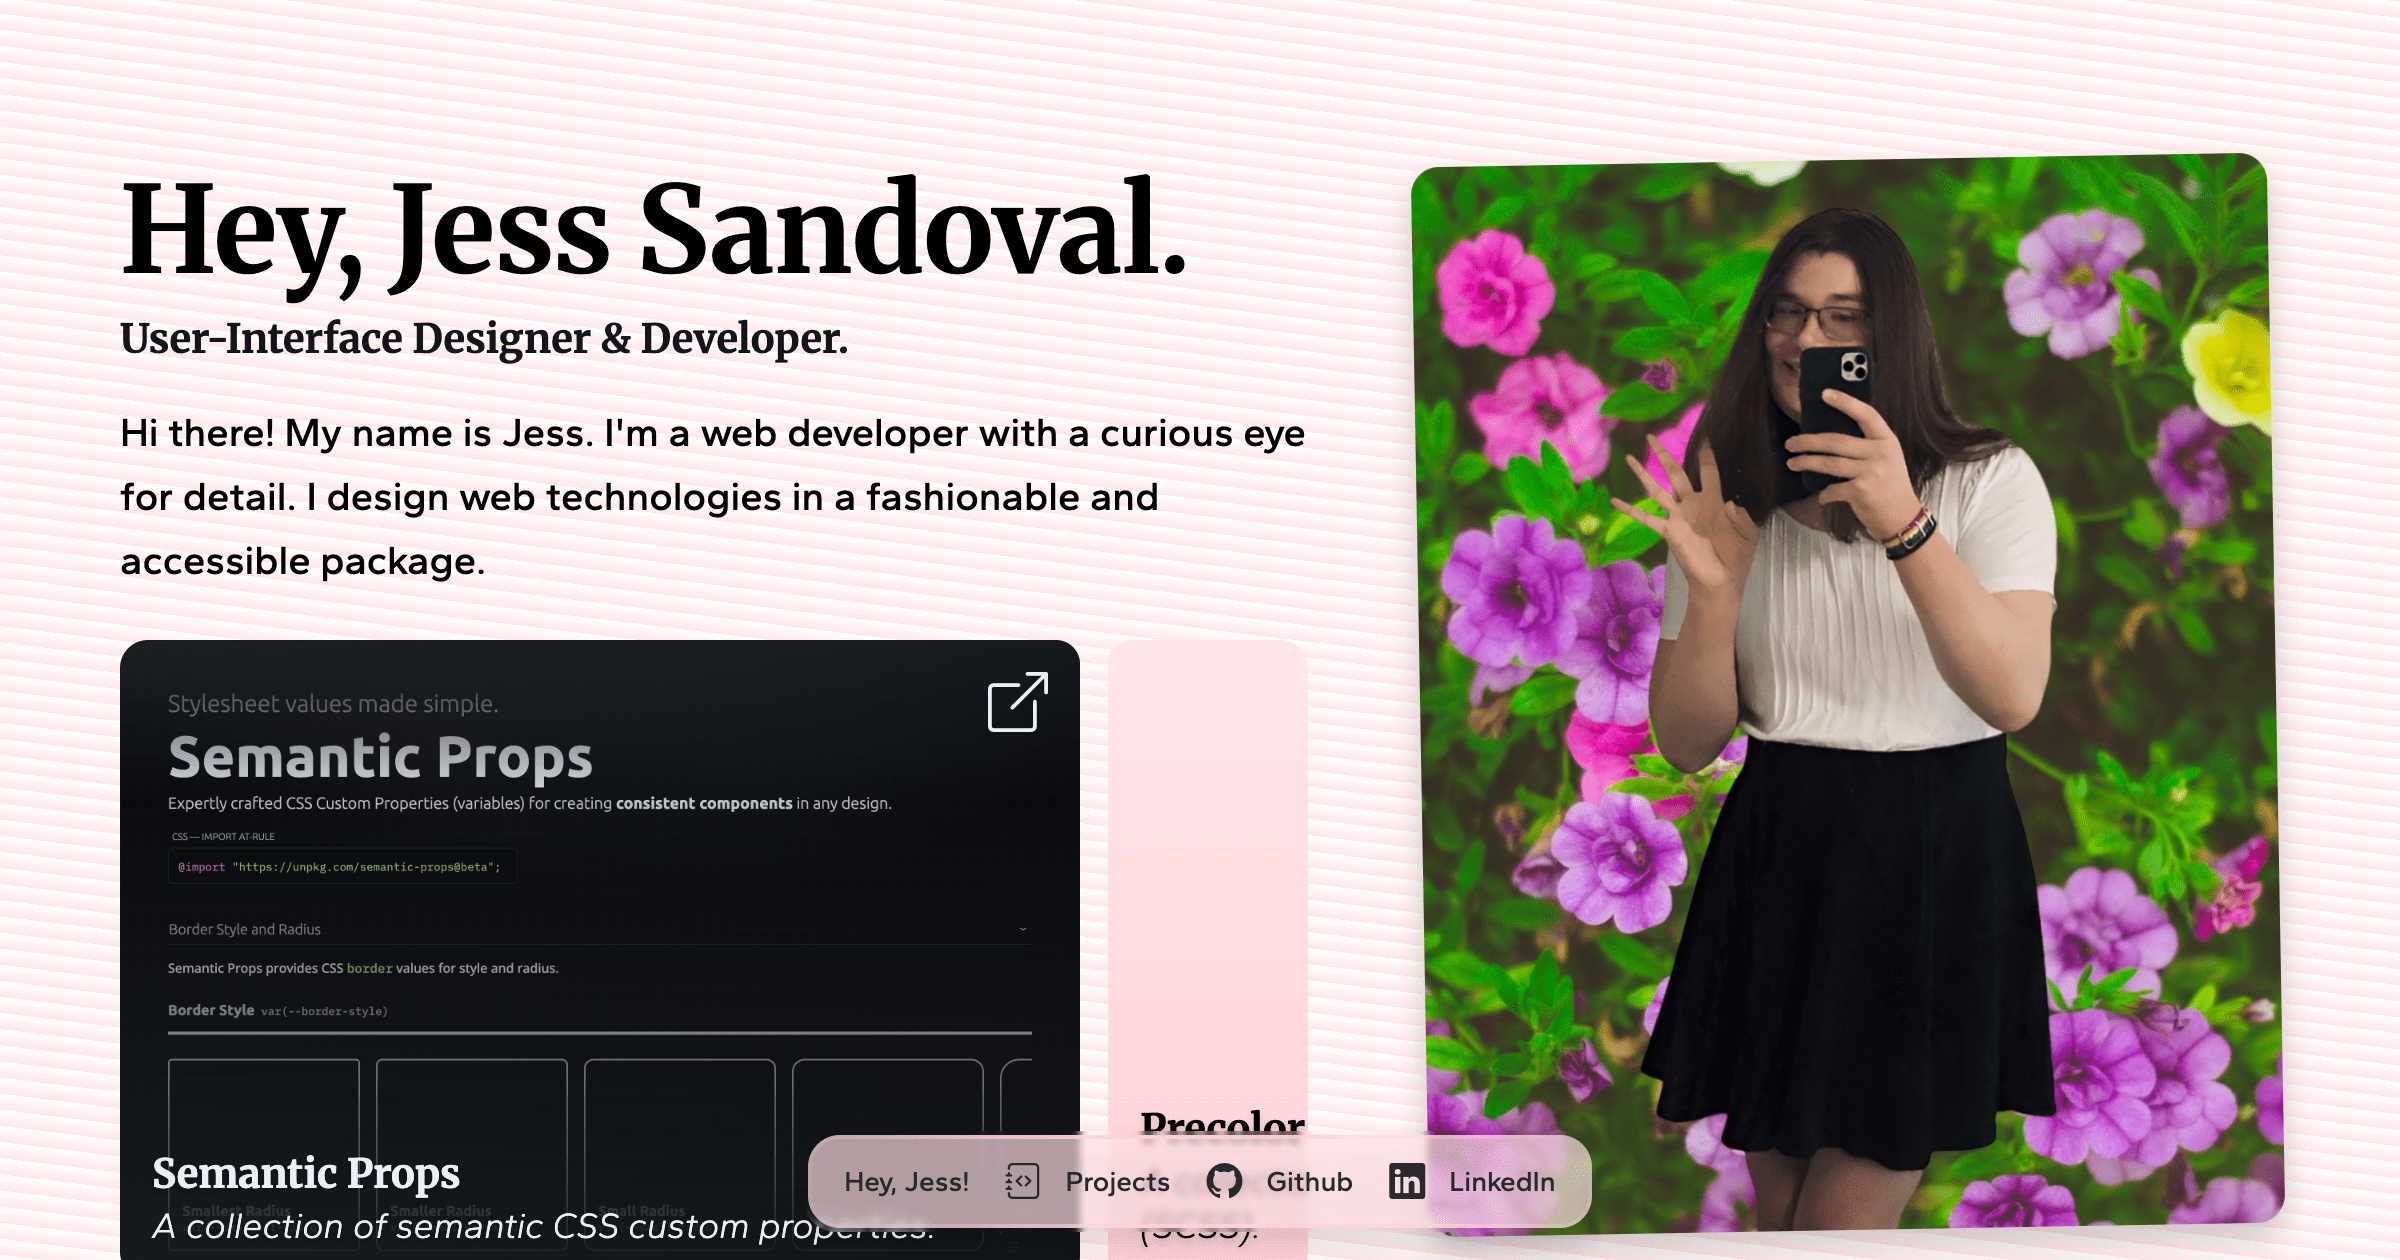
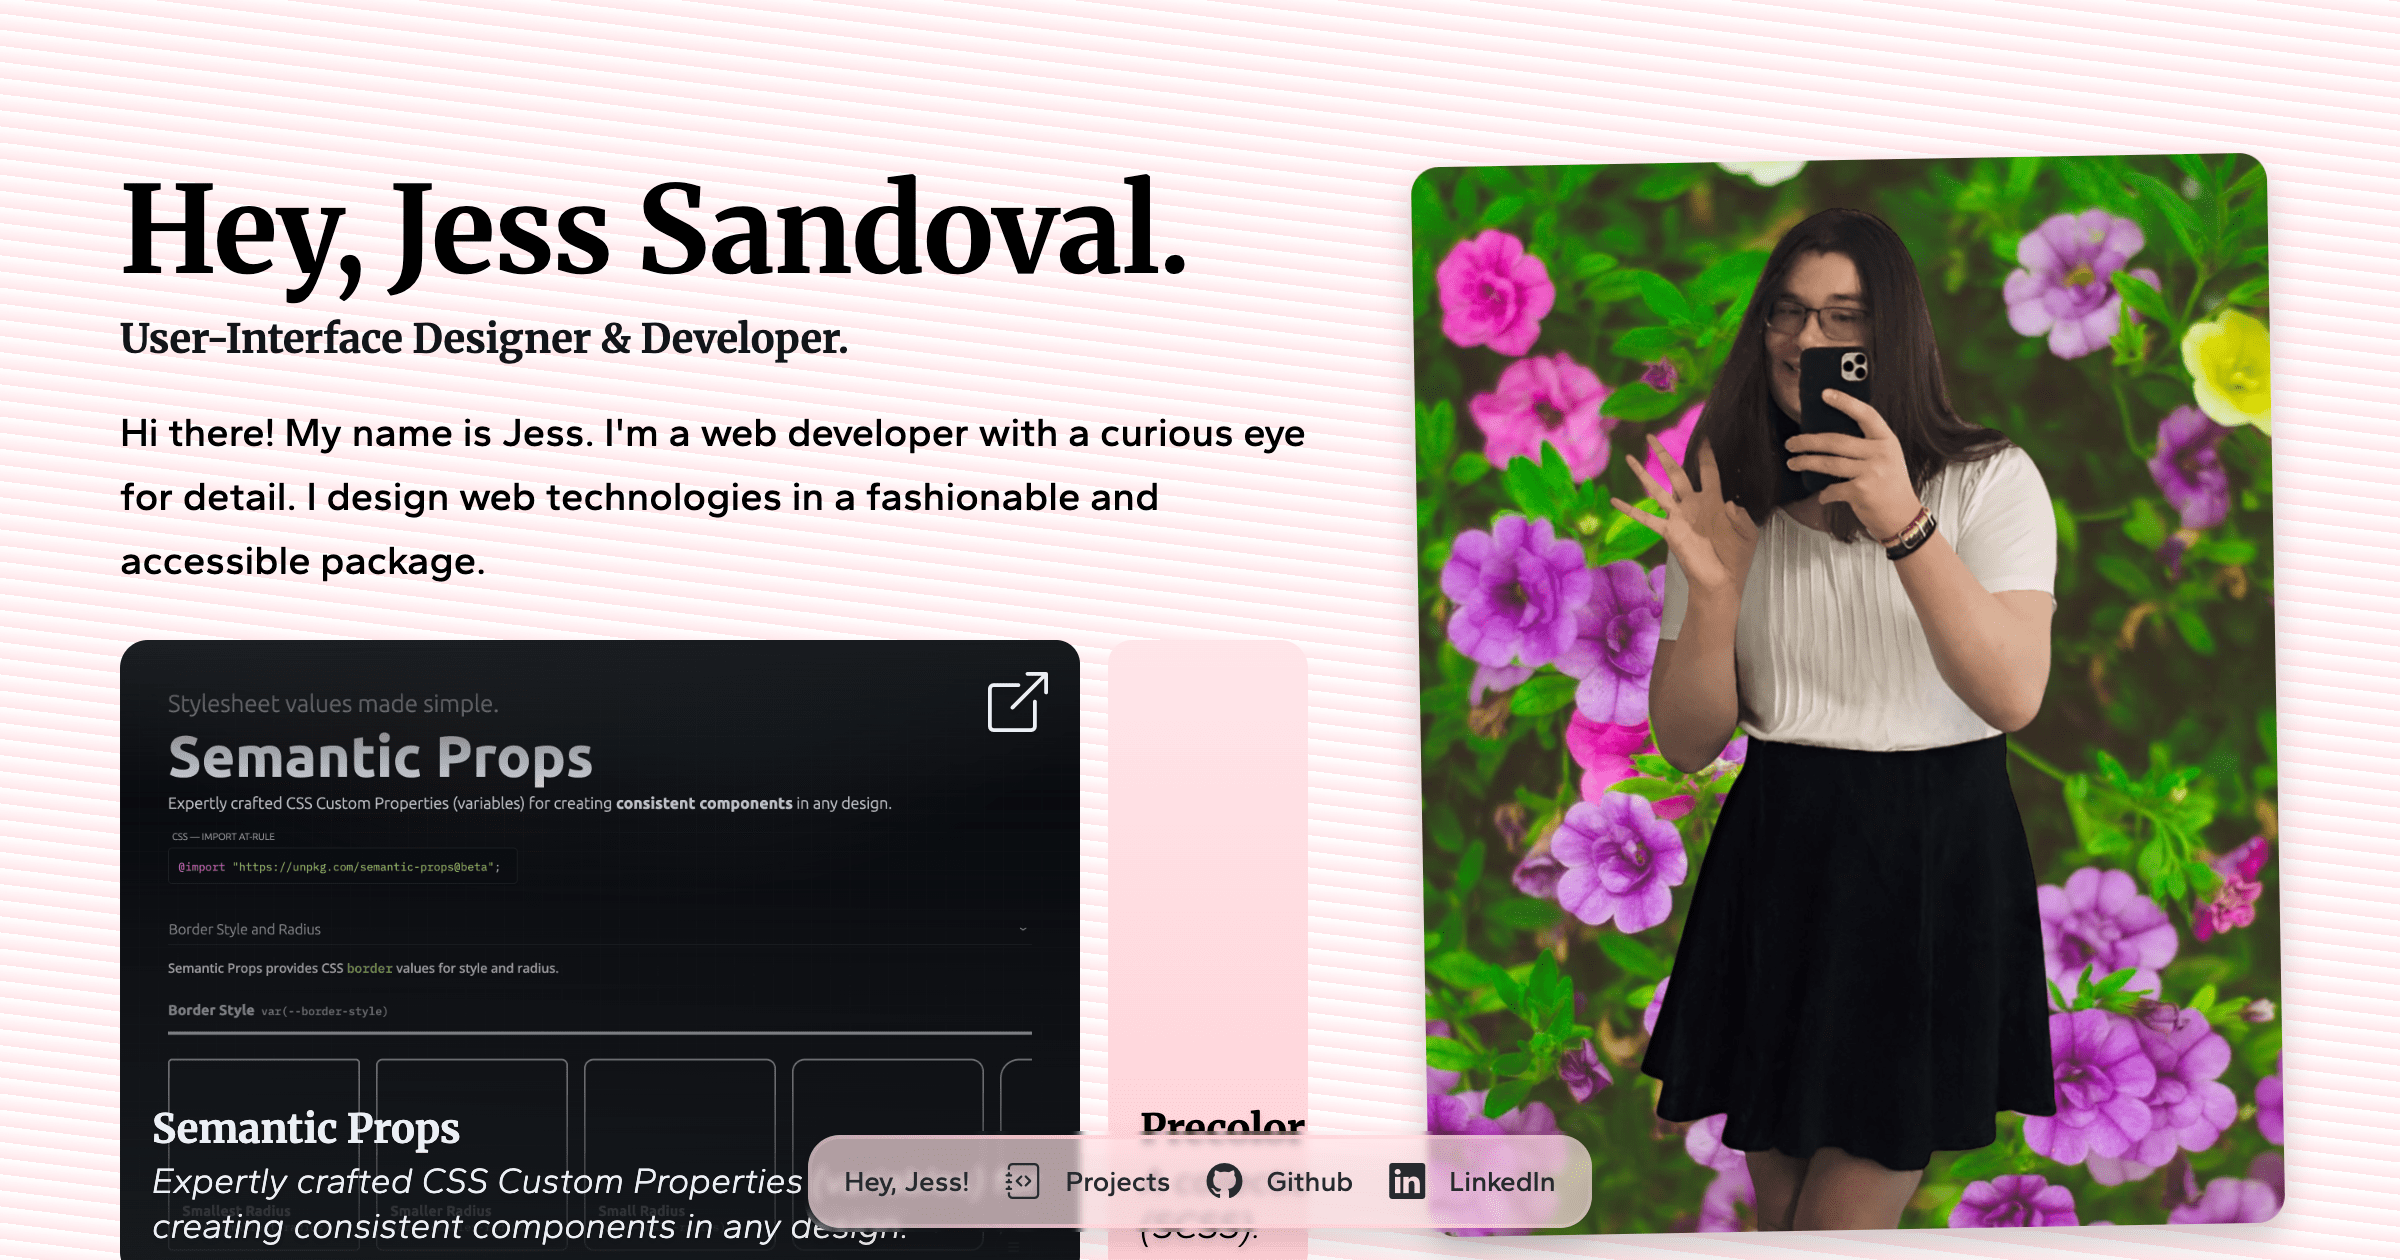
Fixed Semantic Props project description.

diff --git a/src/components/Projects.tsx b/src/components/Projects.tsx
@@ -9,7 +9,7 @@ const projects: {
 }[] = [
 	{
 		"title": "Semantic Props",
-		"description": "A collection of semantic CSS custom properties.",
+		"description": "Expertly crafted CSS Custom Properties (variables) for creating consistent components in any design.",
 		"url": "https://semantic-props.style/",
 		"image": "/projects/semantic-props.png"
 	},
